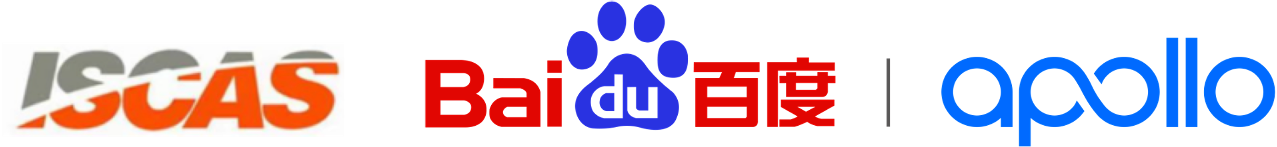
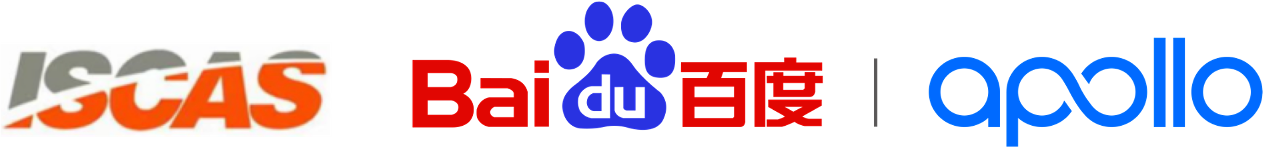
commit

diff --git a/README.md b/README.md
@@ -1,7 +1,7 @@
-# intern2 [(project details..)](https://yanhao5103233729.github.io/edu/)
+# intern2 [(click for more..)](https://yanhao5103233729.github.io/edu/)
 c++, 2023 Summer Intern Baidu Apollo Autonomous Driving Project at ISCAS, Beijing [[paper](https://drive.google.com/file/d/1QpBO1KFtsDsGNAb7DDbin5JoYx22LSGF/view) | [code](https://github.com/yanhao5103233729/intern2) | [video](https://youtu.be/3sck9b50zp4)]
 
-<img src="./img/iscas.png" alt="Example Image" width="70%">
+<img src="./img/iscas.png" alt="Example Image" width="80%">
 
 
 ## Project Overview
